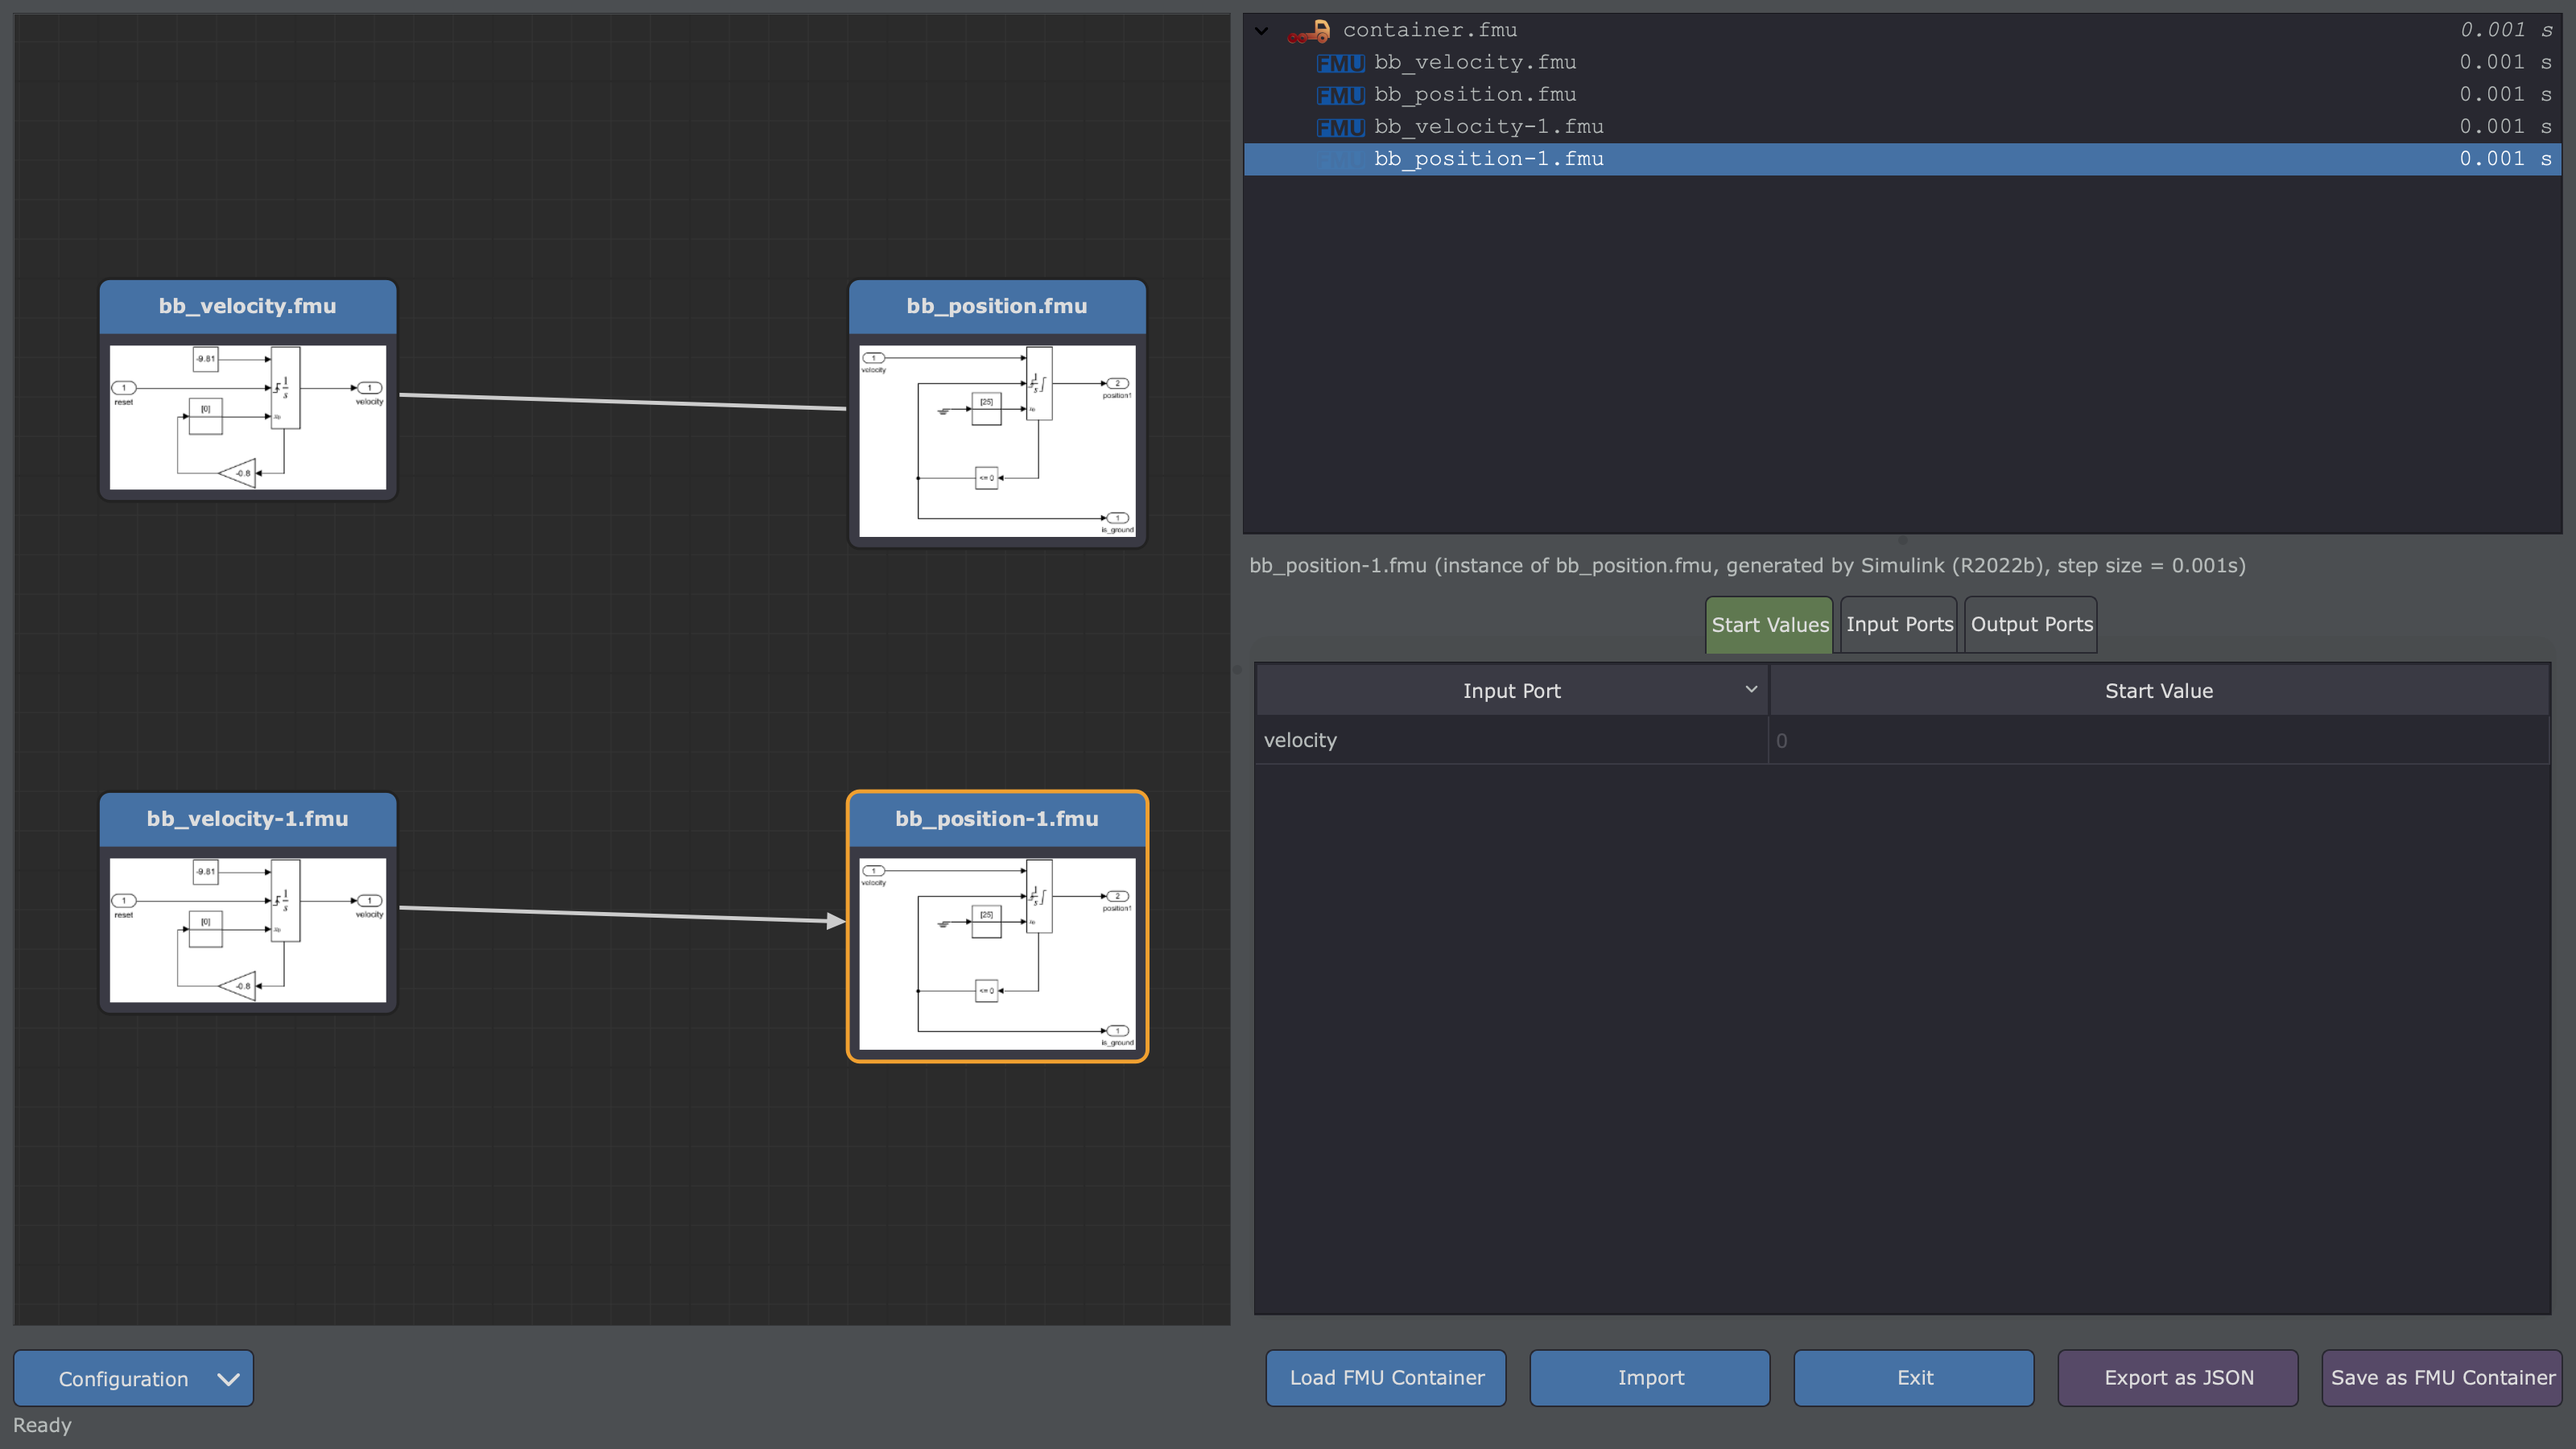
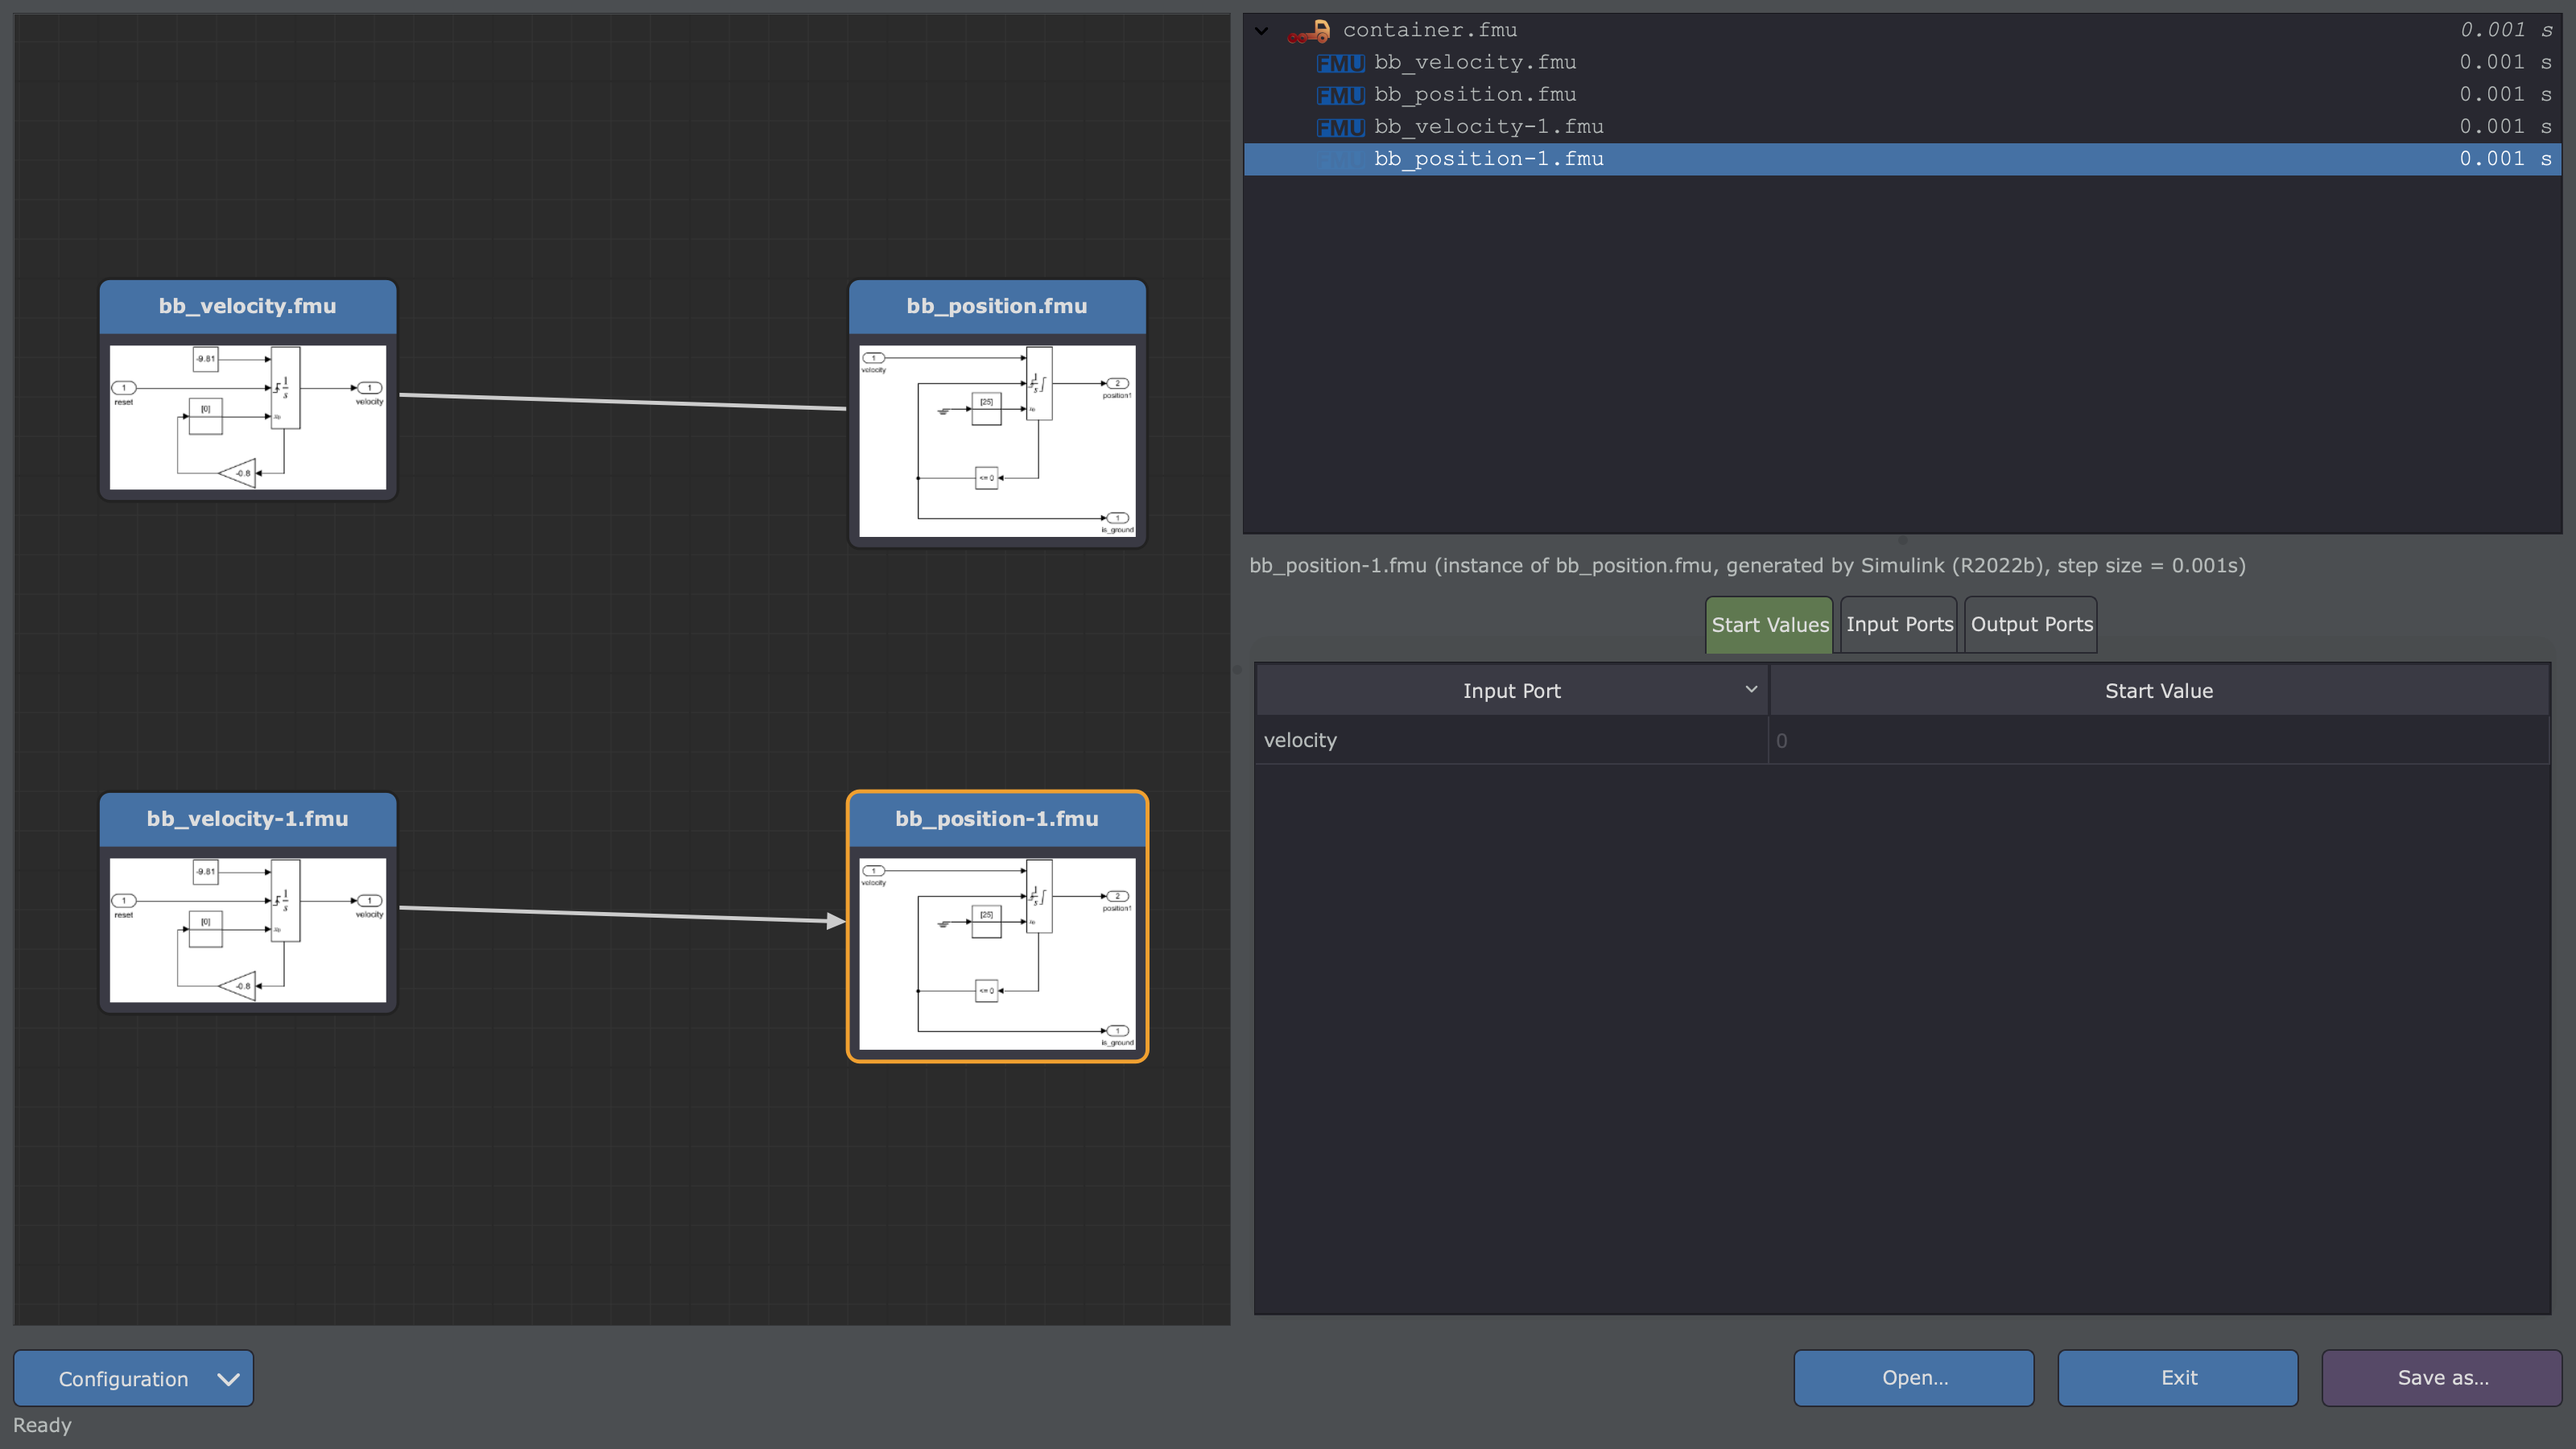
Document the Open and Save as actions of the container builder

Changed region(s): [[0.4688, 0.9333, 0.6875, 0.9956], [0.7812, 0.9333, 1.0, 0.9956]]

diff --git a/docs/user-guide/fmucontainer/gui-usage.md b/docs/user-guide/fmucontainer/gui-usage.md
@@ -11,9 +11,9 @@ fmucontainer-gui
 
 Or from the [FMU Toolbox Launcher](../launcher.md), click **FMU Container Build**.
 
-A file can be given on the command line: an FMU container (`.fmu`) is loaded as with
-[Load FMU Container](#loading-an-existing-container), an assembly file (`.json`, `.csv`, `.ssp`) is imported as with
-[Import](#importing-an-assembly-file):
+A file can be given on the command line, as with **Open…**: an FMU container (`.fmu`) is
+[loaded](#loading-an-existing-container), an assembly file (`.json`, `.csv`, `.ssp`) is
+[imported](#importing-an-assembly-file):
 
 ```bash
 fmucontainer-gui assembly.ssp
@@ -355,8 +355,8 @@ the arrowheads of the expected direction. The wire details show the direction (`
 `A — B` without direction) and the description, rendered as Markdown, above the tabs.
 
 Define the links as for any wire (tabs or [Link Assistant](#link-assistant)): once the wire has links, it is drawn
-as a regular wire, and the hint stays in the wire details. The hint is kept by *Export as SSP*; *Export as JSON*
-and *Save as FMU Container* only keep the links.
+as a regular wire, and the hint stays in the wire details. The hint is kept by **Save as…** an SSP file; saved as
+JSON or as an FMU container, only the links are kept.
 
 ![Architecture wire without link](fmucontainer-architecture-wire.png)
 
@@ -709,20 +709,17 @@ Click **Configuration** to open a popup menu with:
 
 ### Actions
 
-| Button | Description |
-|---|---|
-| **Load FMU Container** | Load an existing FMU container (splits it and reconstructs the graph) |
-| **Import** | Import an assembly from a [JSON](container.md#json-input-file), [CSV](container.md#csv-input-file) or [SSP](container.md#ssp-input-file) file |
-| **Export as JSON** | Export the assembly as a JSON description file |
-| **Export as SSP** | Export the assembly as an [SSP file](container.md#ssp-export): the FMUs, the whole routing, the positions of the nodes and the architecture wires |
-| **Save as FMU Container** | Build and save the container as a `.fmu` file |
-| **Exit** | Close the window (prompts if there are unsaved changes) |
+| Button | Shortcut | Description |
+|---|---|---|
+| **Open…** | Ctrl+O | Open a file; its extension decides: an FMU container (`.fmu`) is [loaded](#loading-an-existing-container) (split, and its graph reconstructed), a [JSON](container.md#json-input-file), [CSV](container.md#csv-input-file) or [SSP](container.md#ssp-input-file) file is [imported](#importing-an-assembly-file). Asks first if there are unsaved changes |
+| **Save as…** | Ctrl+S | Save the assembly, in the format of the filter chosen in the dialog, or of the extension typed: an **FMU Container** (`.fmu`, built with the FMI version and the datalog option of the **Configuration** menu), an [SSP file](container.md#ssp-export) (`.ssp`: the FMUs, the whole routing, the positions of the nodes and the architecture wires) or a **JSON** description (`.json`). The dialog proposes FMU Container first, then the format saved last |
+| **Exit** | | Close the window (asks if there are unsaved changes) |
 
-During **Load**, **Import**, **Export**, and **Save** operations, a progress dialog shows execution logs in real time.
-These messages also remain available in the [log window](#log).
+On macOS, the shortcuts use ⌘ instead of Ctrl. During opening and saving, a progress dialog shows the execution
+logs in real time. These messages also remain available in the [log window](#log).
 
 !!! tip "Relative FMU paths"
-    When exporting with **Export as JSON**, the FMU paths written in the `fmu` and `link` blocks
+    When saving as JSON, the FMU paths written in the `fmu` and `link` blocks
     are automatically made relative to the directory where the JSON file is saved. This keeps the
     exported assembly portable as long as the FMU files stay in the same relative layout — see
     also the [FMU location](#importing-an-assembly-file) requirement when re-importing.
@@ -787,8 +784,8 @@ tab to explicitly expose specific output ports, at the container level.
 
 ### Step 6: Save
 
-Click **Save as FMU Container** to build the final `.fmu` file, or **Export as JSON** (or **Export as SSP**) to save
-the assembly description for later use with the `fmucontainer` CLI — or, as SSP, with other tools.
+Click **Save as…** and choose **FMU Container** to build the final `.fmu` file, or **JSON** (or **SSP**) to save the
+assembly description for later use with the `fmucontainer` CLI — or, as SSP, with other tools.
 
 ## Auto-Wiring Workflow
 
@@ -810,12 +807,12 @@ This tells the container to automatically connect ports with matching names when
 
 ### Step 3: Save the FMU Container
 
-Click **Save as FMU Container** to build the `.fmu` file. The auto-linking is performed during the
+Click **Save as…** and save as an FMU Container. The auto-linking is performed during the
 build process: matching output and input ports are connected automatically.
 
 ### Step 4: Reload to verify
 
-Click **Load FMU Container** and open the `.fmu` file you just created. The tool will split the
+Click **Open…** and open the `.fmu` file you just created. The tool will split the
 container and reconstruct the graph — this time with all the **automatically created wires** visible 
 on the canvas. You can select any wire to inspect the port mappings in the detail panel.
 
@@ -825,7 +822,7 @@ on the canvas. You can select any wire to inspect the port mappings in the detai
 
 ## Loading an Existing Container
 
-Click **Load FMU Container** to open an existing `.fmu` container. The tool will:
+Click **Open…** and choose an existing `.fmu` container. The tool will:
 
 1. Split the container to extract the embedded FMUs and the JSON description
 2. Reconstruct the node graph with all FMUs, wires, port mappings, and start values
@@ -835,7 +832,7 @@ You can then modify the assembly and re-save it.
 
 ## Importing an Assembly File
 
-Click **Import** to load an assembly from an existing description file. Three formats are supported:
+Click **Open…** and choose an existing description file. Three formats are supported:
 
 - [**JSON**](container.md#json-input-file) — full assembly description including container parameters, FMU list, links, start values, and sub-containers.
 - [**CSV**](container.md#csv-input-file) — routing table only (FMU list, links, inputs/outputs). Container parameters use defaults.
@@ -857,5 +854,5 @@ The tool will:
     as the description file. An SSP archive contains its FMUs.
 
 !!! warning "Unsaved Changes"
-    If you have unsaved changes when closing the window or loading a new container, you will be
+    If you have unsaved changes when closing the window or opening another file, you will be
     prompted to confirm.

diff --git a/docs/local/done/container_builder_actions.md b/docs/local/done/container_builder_actions.md
@@ -1,6 +1,6 @@
 # Plan: actions of the Container Builder (Open, Save as)
 
-**Created**: 1 November 2026 — **Status**: in progress
+**Created**: 1 November 2026 — **Status**: done (1 November 2026)
 
 The button bar of the Container Builder has grown with the formats: **Load FMU Container**, **Import**, **Export as
 JSON**, **Export as SSP**, **Save as FMU Container**, **Exit**, next to **Configuration**. Five of them open or write an
@@ -66,3 +66,6 @@ assembly in some format; the choice of the button is the choice of the format. T
 4. **User documentation** (`gui-usage.md`: actions, workflow; screenshots regenerated with `tools/screenshots.py`)
    and CHANGELOG.
    Commit message: `Document the Open and Save as actions of the container builder`
+   **Done** (1 November 2026): `gui-usage.md` (actions and shortcuts, workflows, loading and importing),
+   `container.md` (SSP export); the 5 screenshots showing the button bar regenerated (`container`, `container-vr`,
+   `container-reset`, `invalid-wire`, `instances`); CHANGELOG.

diff --git a/CHANGELOG.md b/CHANGELOG.md
@@ -76,6 +76,10 @@ Not released yet. Changes since 2.0, with the same legend as 2.0.
 
 ## Graphical User Interfaces
 
+- 🔵 **CHANGED** Container Builder: two actions, **Open…** (Ctrl+O) and **Save as…** (Ctrl+S), replace **Load FMU
+  Container**, **Import**, **Export as JSON**, **Export as SSP** and **Save as FMU Container**: the extension of the
+  file decides (`.fmu` container, `.json`, `.csv` or `.ssp` assembly file; saved as an FMU container, SSP or JSON).
+  Open… asks first when there are unsaved changes, as Exit does.
 - 🟢 **ADDED** `fmucontainer-gui <file>` opens an FMU container (`.fmu`) or imports an assembly file (`.json`,
   `.csv`, `.ssp`) given on the command line.
 - 🟢 **ADDED** Container Builder: the nodes imported from an SSP file are placed after the geometry of their

diff --git a/docs/user-guide/fmucontainer/container.md b/docs/user-guide/fmucontainer/container.md
@@ -316,7 +316,7 @@ error is a warning, and the file is read if the reader understands it.
 
 ### SSP export
 
-An assembly is written as an SSP file by `fmucontainer -dump-ssp`, by **Export as SSP** in the
+An assembly is written as an SSP file by `fmucontainer -dump-ssp`, by **Save as…** (SSP) in the
 [Container Builder](gui-usage.md#actions), or by `Assembly.write_ssp()`. The file is read back into the same
 container, and other tools see the whole system.
 
